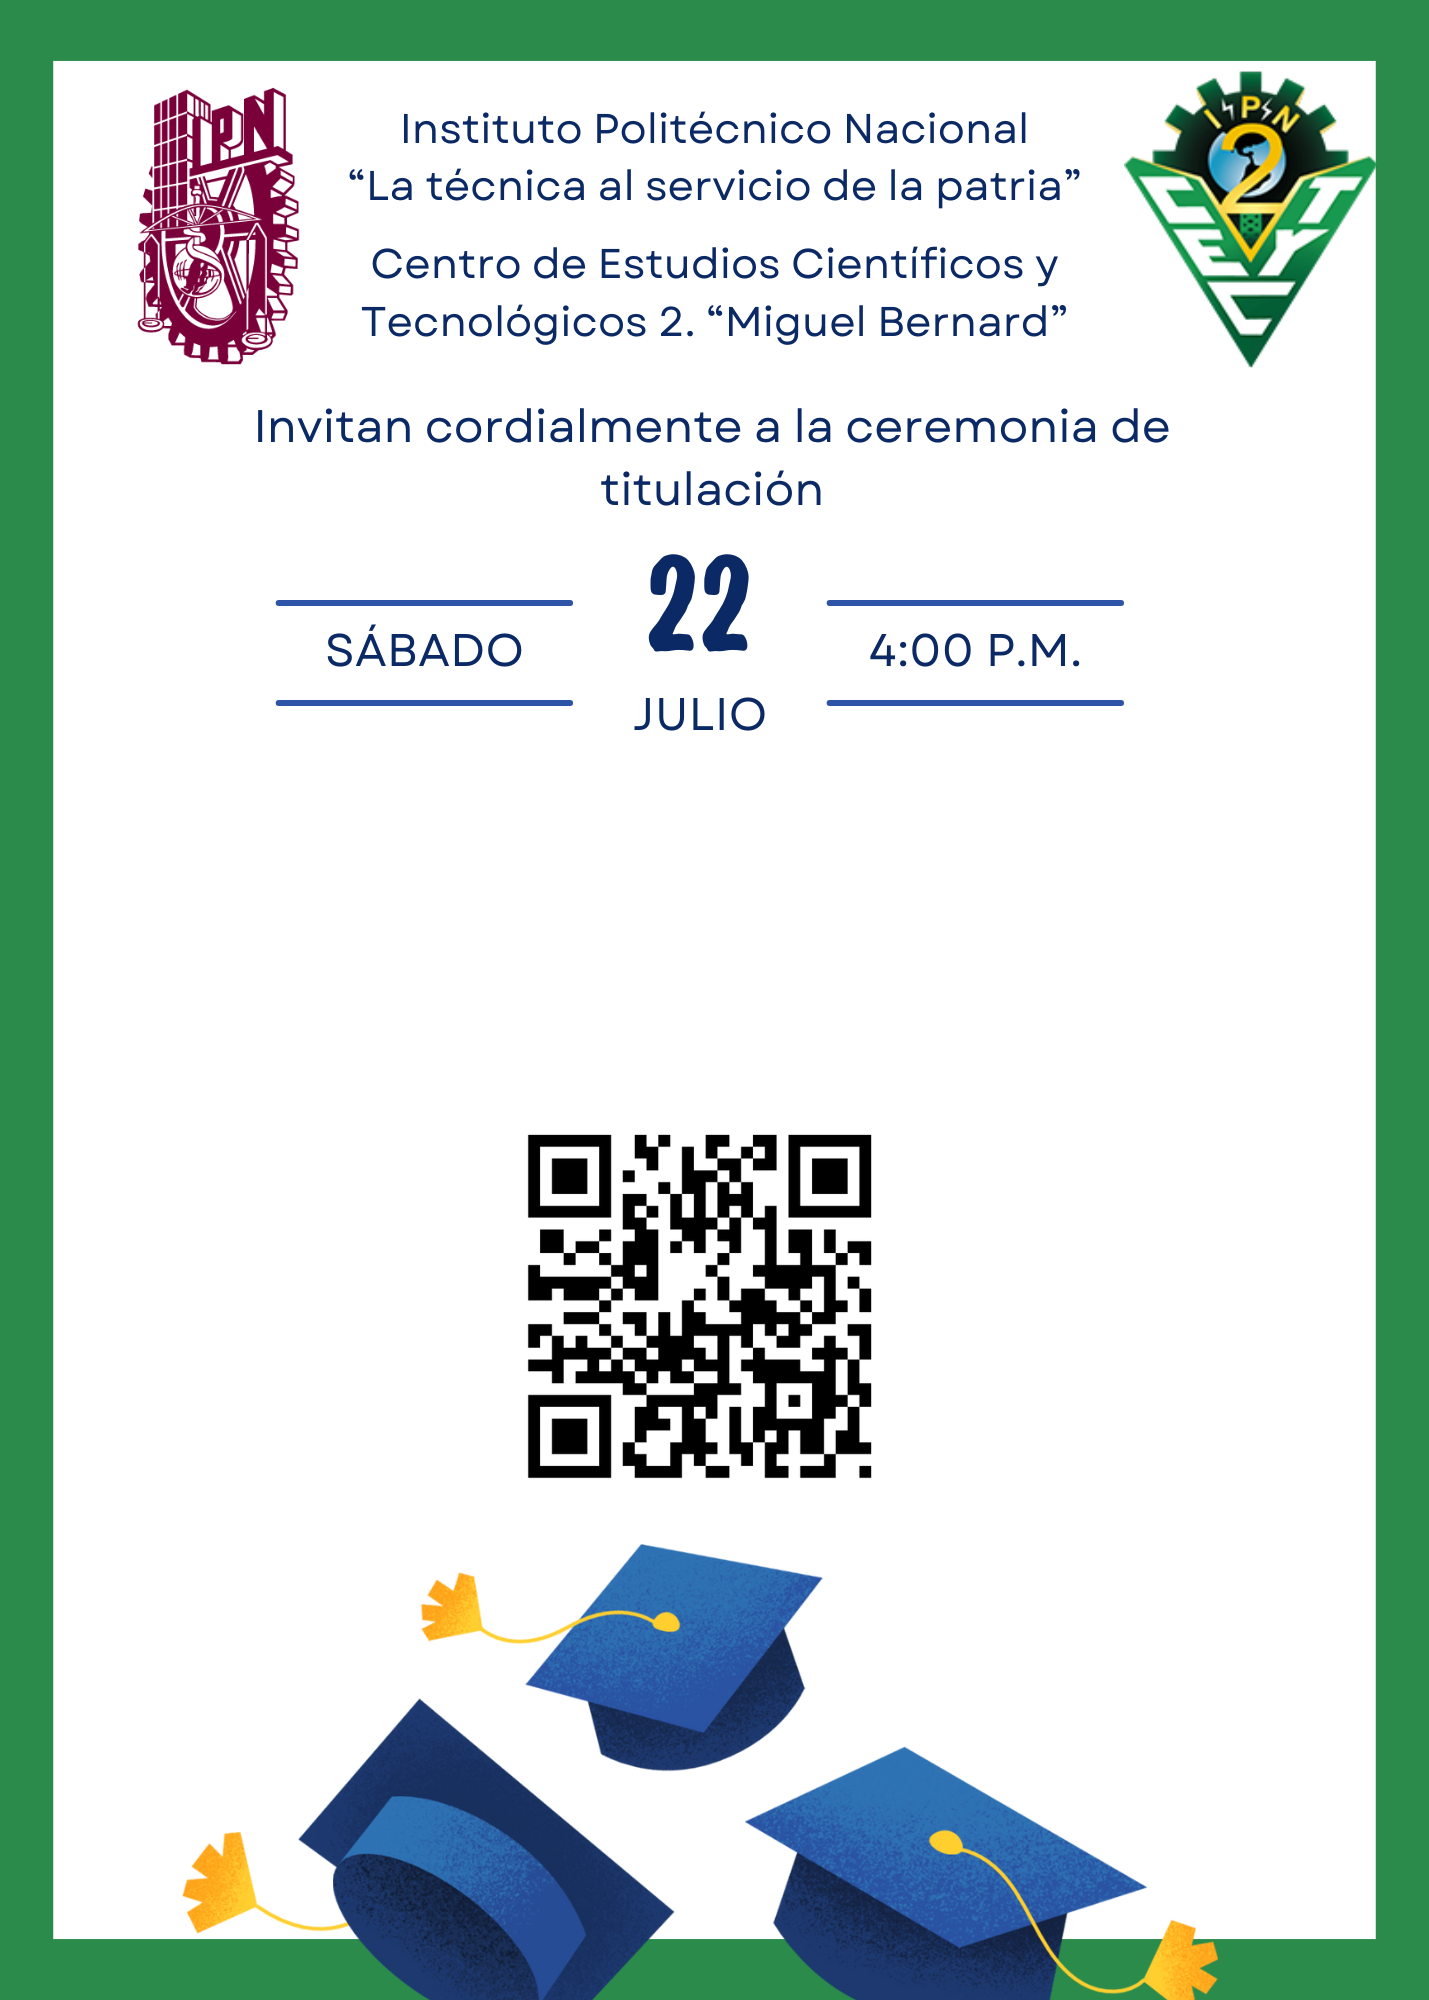
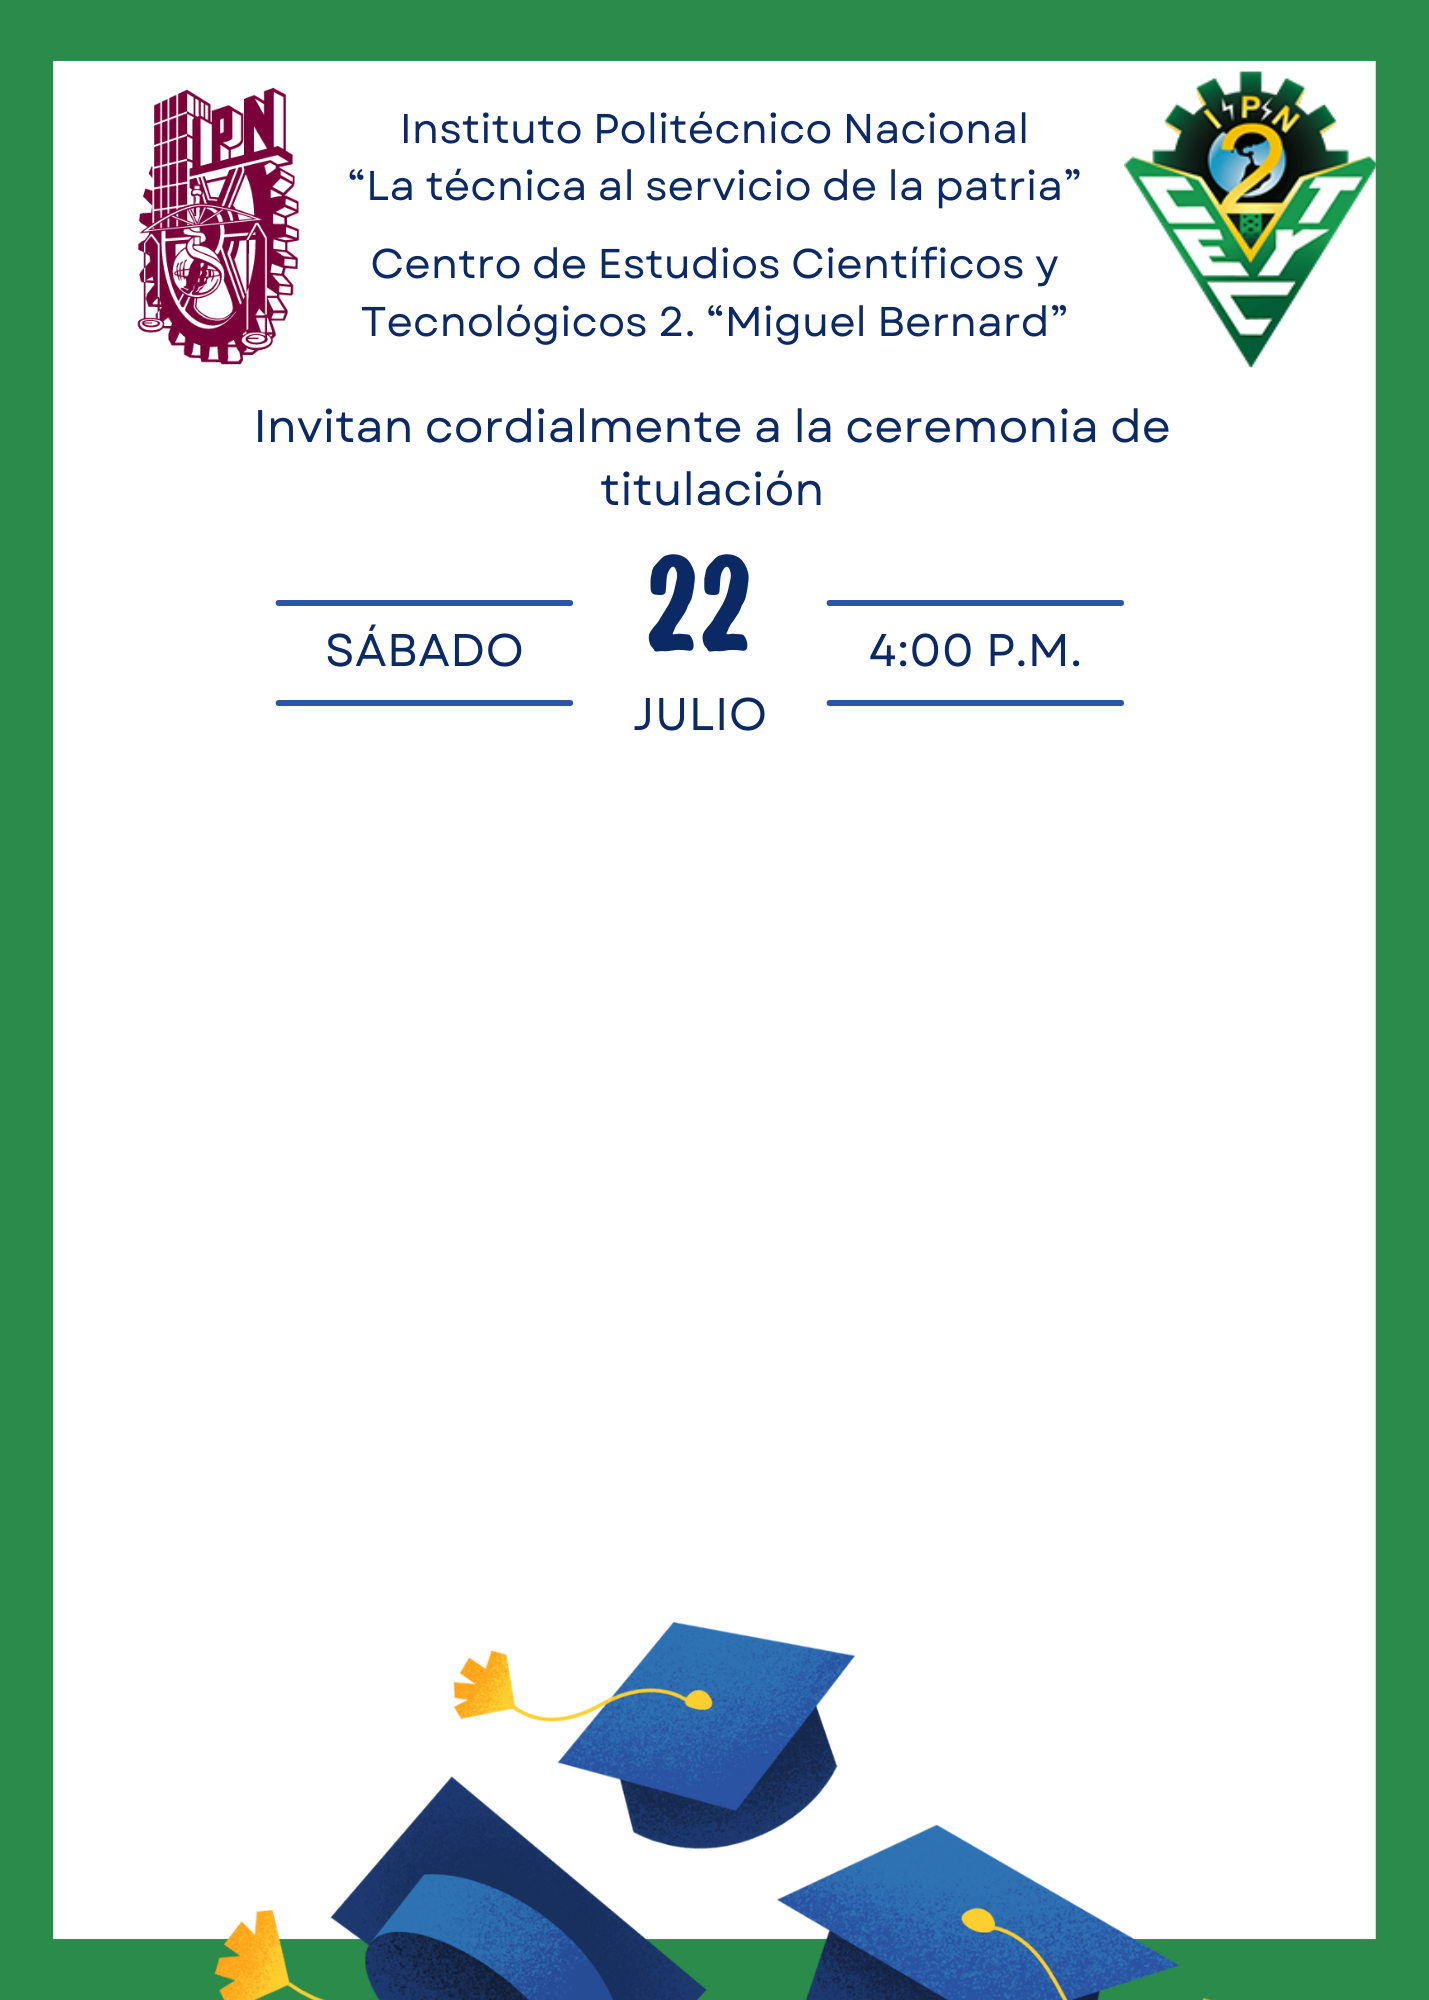
mejora de generacion de PDF

Changed region(s): [[0.2155, 0.775, 0.8621, 1.0], [0.3695, 0.558, 0.6158, 0.744], [0.1232, 0.899, 0.2155, 1.0]]

diff --git a/graduados/src/main/java/com/example/graduados/services/PdfService.java b/graduados/src/main/java/com/example/graduados/services/PdfService.java
@@ -161,8 +161,11 @@ public class PdfService {
             imgBaos.close();
 
             Image qrItextImage = Image.getInstance(qrBytes);
-            qrItextImage.scaleToFit(150, 150);
-            qrItextImage.setAbsolutePosition(PageSize.A4.getWidth() - 170, 50); // Ajusta posición (derecha abajo)
+            qrItextImage.scaleToFit(250, 250);
+            qrItextImage.setAbsolutePosition(
+                (PageSize.A4.getWidth() - qrItextImage.getScaledWidth()) / 2,
+                170 // Ajusta esto si quieres moverlo más arriba o abajo
+            );
             document.add(qrItextImage);
 
             // Salto de página para acompañantes
